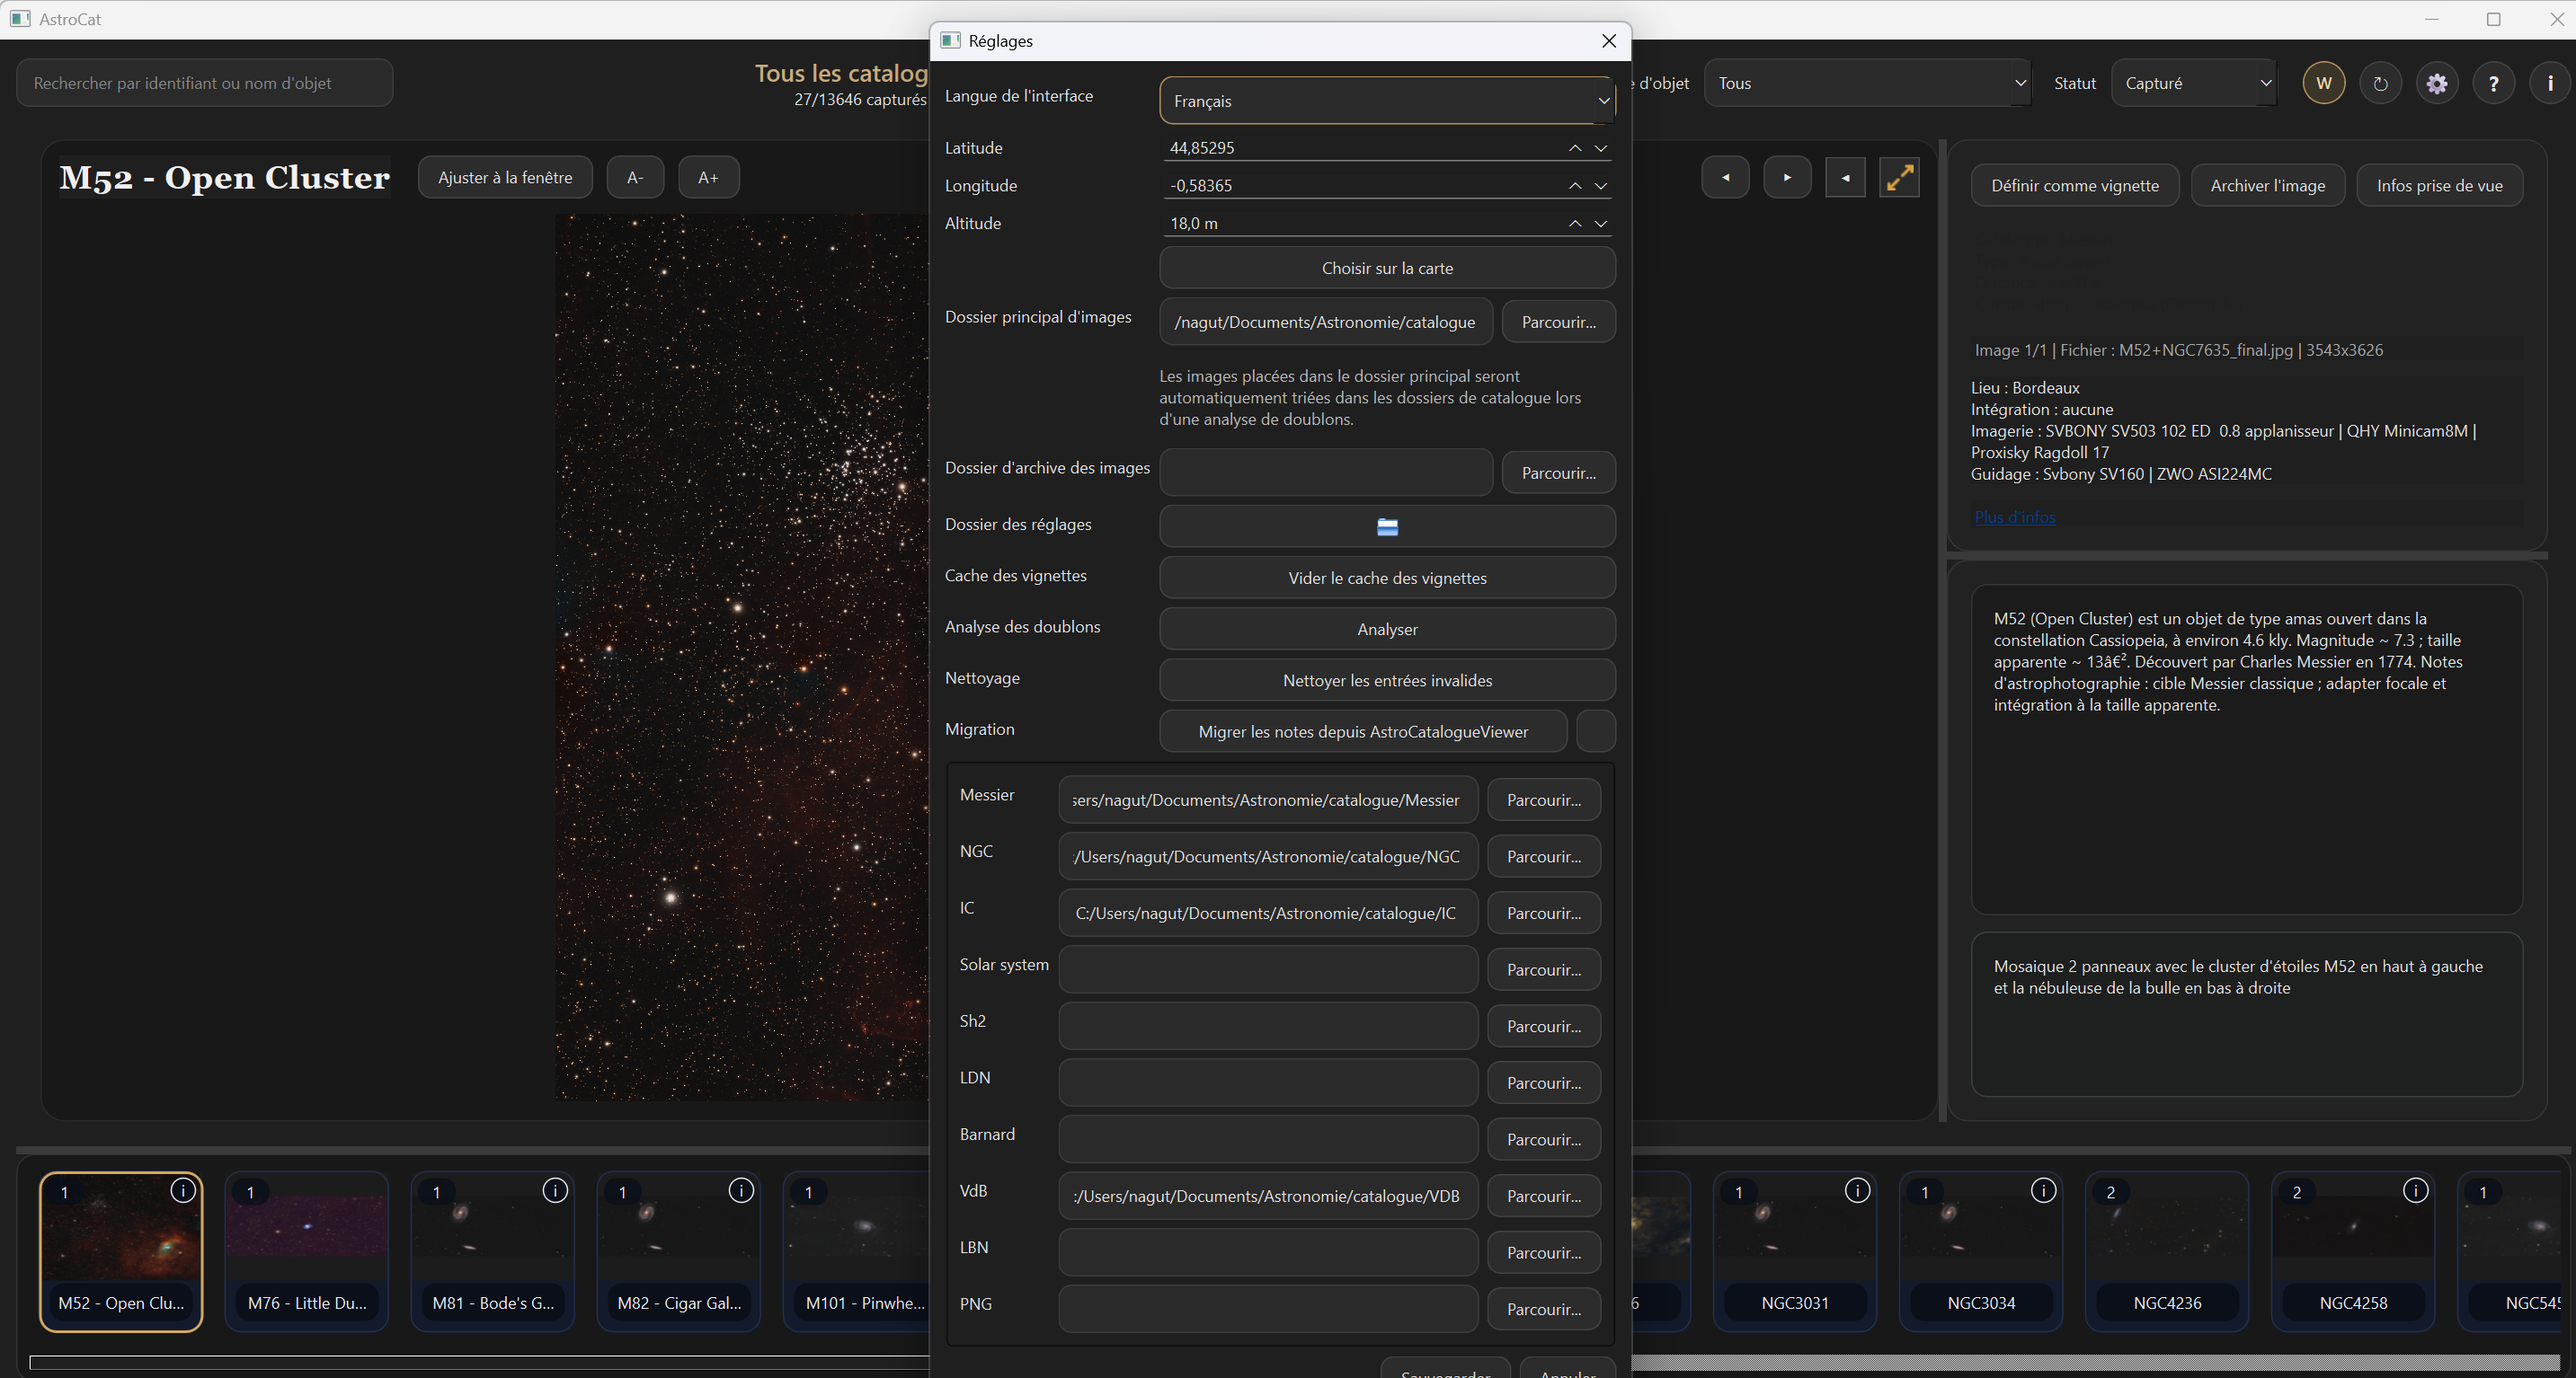
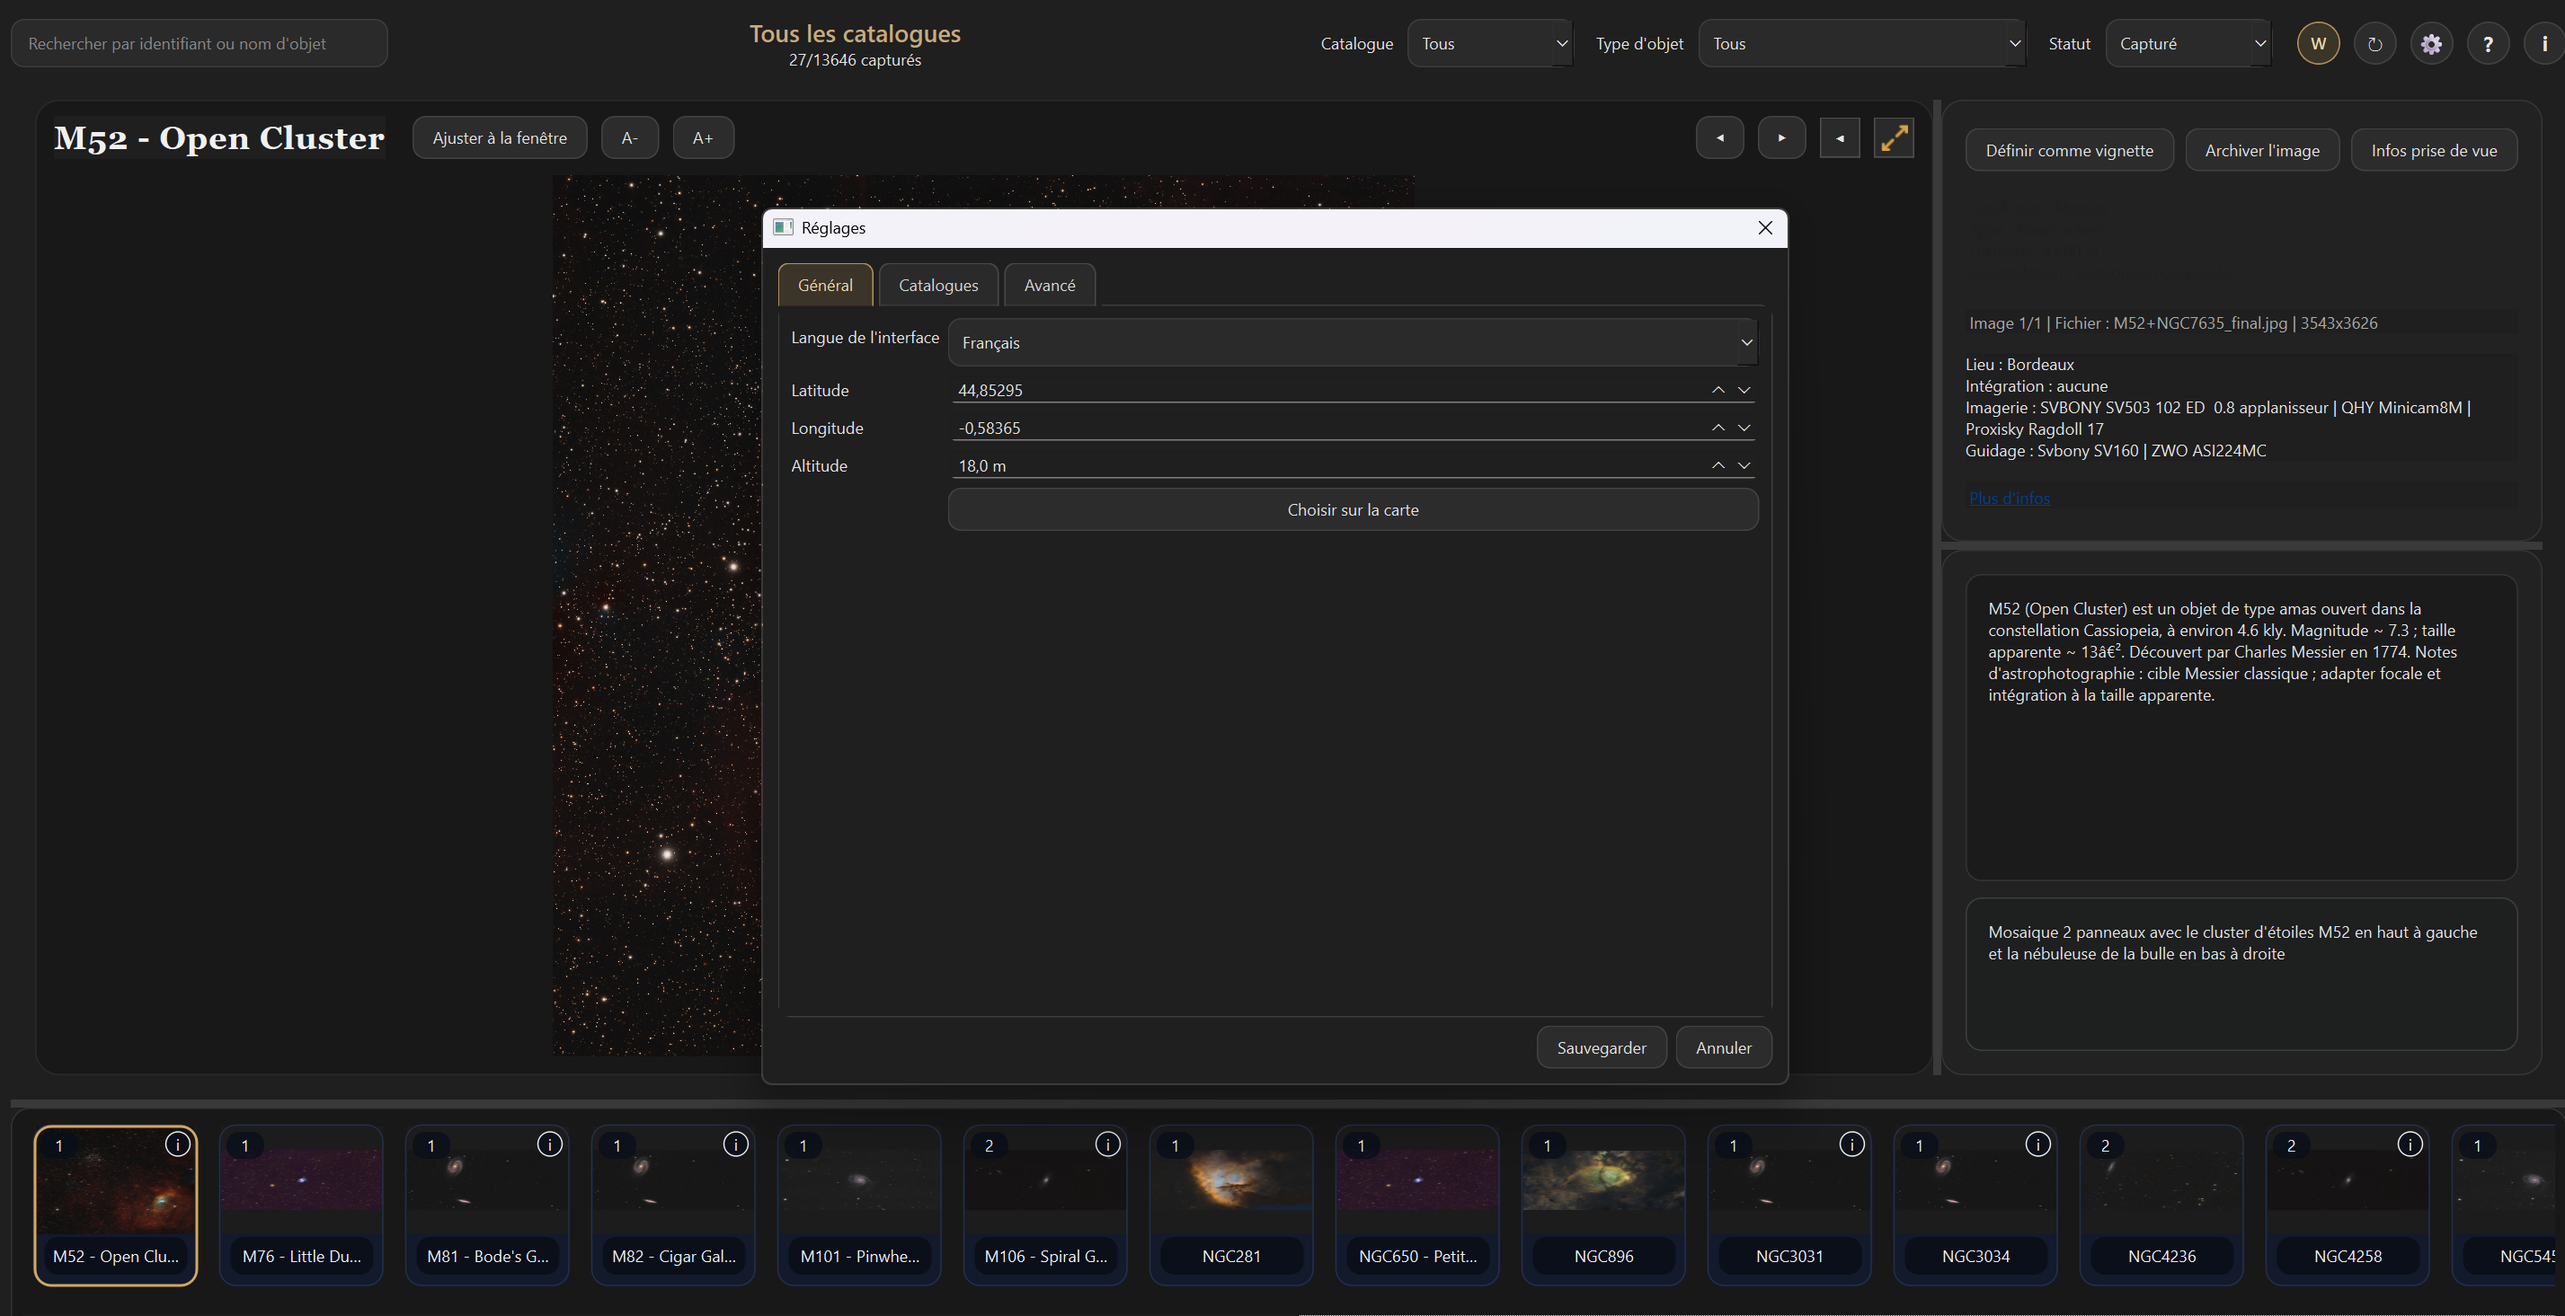
preparing v1.7.1

diff --git a/CHANGELOG.md b/CHANGELOG.md
@@ -2,11 +2,17 @@
 
 All notable changes to this project are documented in this file.
 
+## [1.7.1] - 2026-05-06
+### Changed
+- **UI** Setting Screen modified with tabs
+
+### Fixed
+- issue with the image notes migration from AstroCatalogueViewver
+
 ## [1.7.0] - 2026-05-06
 ### Added
 - **New Name** Astrocat becomes Selune. 
 - Config is automatically get from previous AstroCat installation at first launch of Selune
-
 
 
 ## [1.6.1] - 2026-05-05

diff --git a/README.md b/README.md
@@ -12,7 +12,7 @@ Copyright and attribution details: [COPYRIGHT](COPYRIGHT).
 
 Status: stable
 
-Latest release: `1.7.0`
+Latest release: `1.7.1`
 
 Release history: [CHANGELOG.md](CHANGELOG.md)
 
